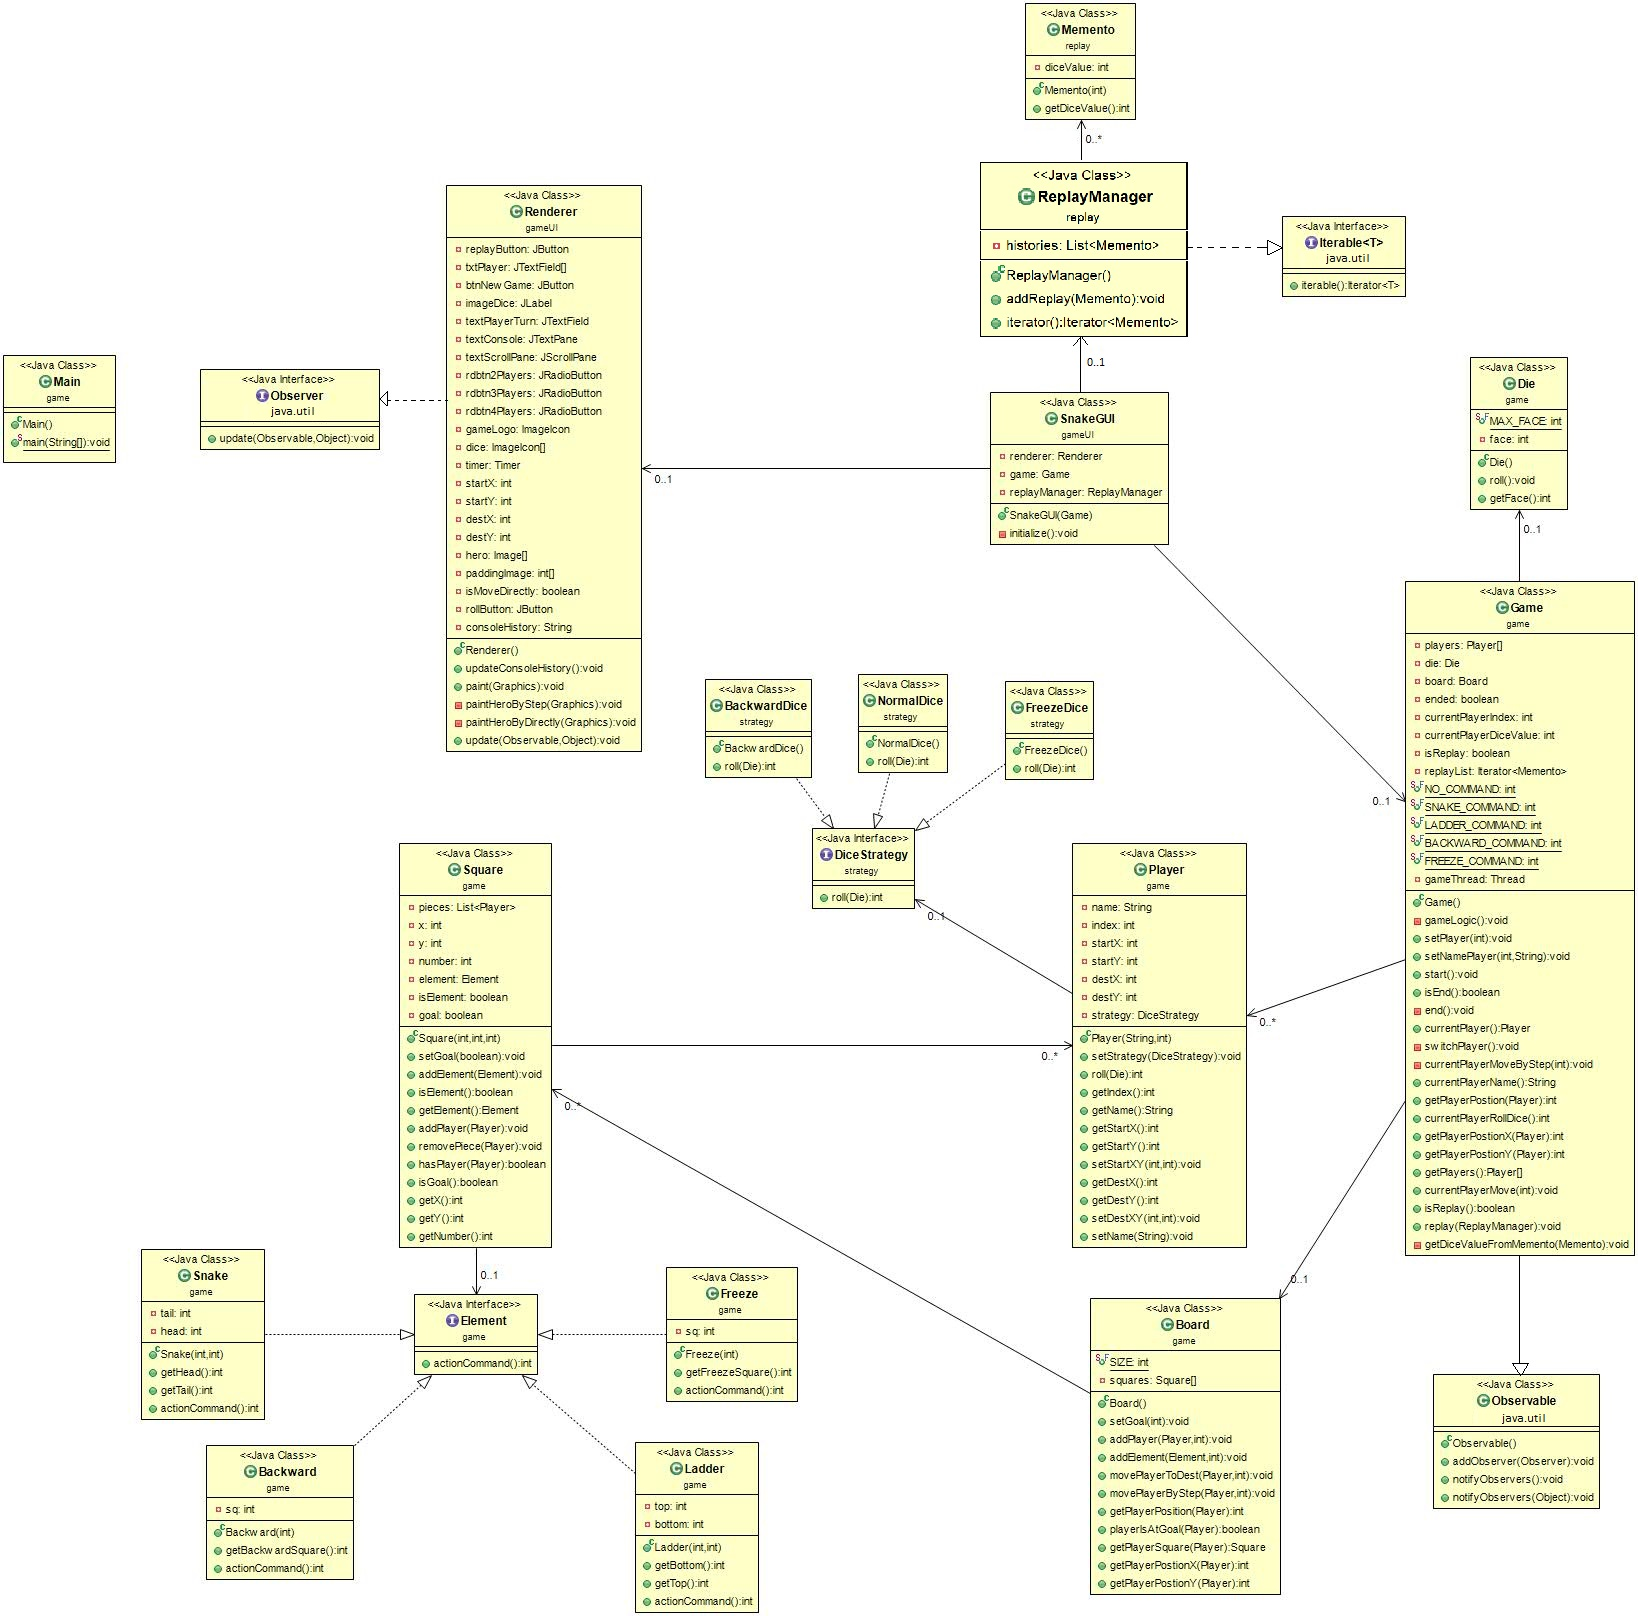
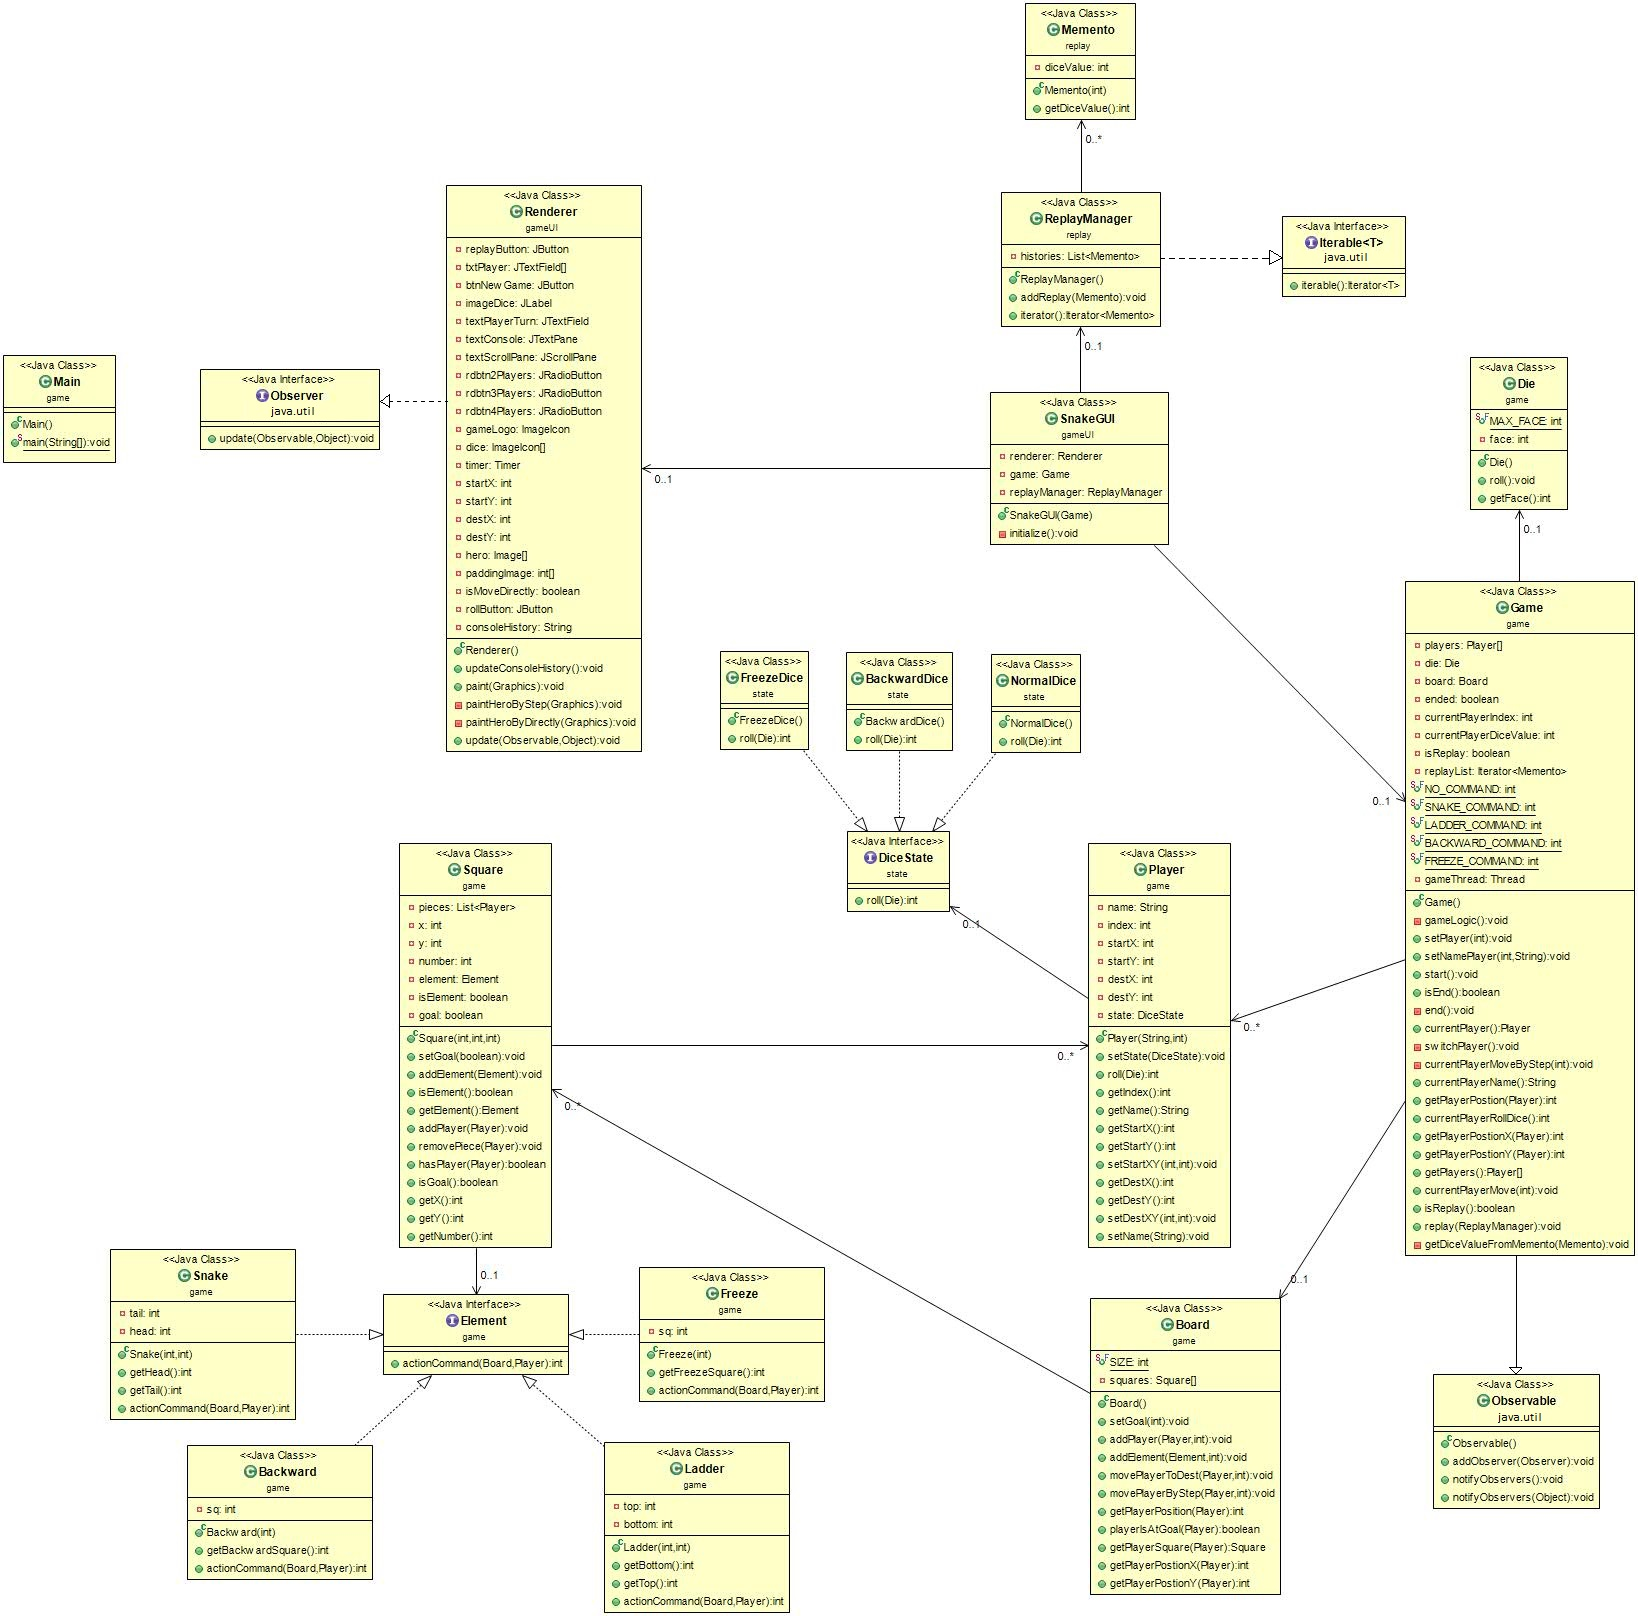
better design pattern

diff --git a/src/game/Game.java b/src/game/Game.java
@@ -5,8 +5,6 @@ import java.util.Observable;
 
 import replay.Memento;
 import replay.ReplayManager;
-import strategy.BackwardDice;
-import strategy.FreezeDice;
 
 public class Game extends Observable {
 
@@ -36,7 +34,6 @@ public class Game extends Observable {
 		die = new Die();
 		board = new Board();
 		currentPlayerIndex = 0;
-		// gameThread.start();
 
 		// Set and add Snake position
 		Snake[] snakes = { new Snake(49, 4), new Snake(42, 16), new Snake(55, 7), new Snake(72, 14), new Snake(86, 48),
@@ -69,17 +66,7 @@ public class Game extends Observable {
 		Square currentPlayerSquare = board.getPlayerSquare(currentPlayer());
 		if (currentPlayerSquare.isElement()) {
 			Element element = currentPlayerSquare.getElement();
-			commandID = element.actionCommand();
-			if (commandID == SNAKE_COMMAND) {
-				Snake snake = (Snake) element;
-				board.movePlayerToDest(currentPlayer(), snake.getTail());
-			} else if (commandID == LADDER_COMMAND) {
-				Ladder ladder = (Ladder) element;
-				board.movePlayerToDest(currentPlayer(), ladder.getTop());
-			} else if (commandID == BACKWARD_COMMAND)
-				currentPlayer().setStrategy(new BackwardDice());
-			else if (commandID == FREEZE_COMMAND)
-				currentPlayer().setStrategy(new FreezeDice());
+			commandID = element.actionCommand(board, currentPlayer());
 		}
 		if (board.playerIsAtGoal(currentPlayer()))
 			end();
@@ -108,7 +95,6 @@ public class Game extends Observable {
 	}
 
 	public void start() {
-
 		gameThread = new Thread() {
 			@Override
 			public void run() {

diff --git a/src/game/Player.java b/src/game/Player.java
@@ -1,7 +1,7 @@
 package game;
 
-import strategy.DiceStrategy;
-import strategy.NormalDice;
+import state.DiceState;
+import state.NormalDice;
 
 public class Player {
 
@@ -14,21 +14,21 @@ public class Player {
 	private int destX;
 	private int destY;
 
-	private DiceStrategy strategy;
+	private DiceState state;
 
 	public Player(String name, int index) {
+		this.state = new NormalDice();
 		this.index = index;
-		this.strategy = new NormalDice();
 		this.name = name;
 	}
 
-	public void setStrategy(DiceStrategy strategy) {
-		this.strategy = strategy;
+	public void setState(DiceState state) {
+		this.state = state;
 	}
 
 	public int roll(Die die) {
-		int val = this.strategy.roll(die);
-		this.setStrategy(new NormalDice());
+		int val = this.state.roll(die);
+		this.state = new NormalDice();
 		return val;
 	}
 

diff --git a/src/game/Backward.java b/src/game/Backward.java
@@ -1,5 +1,7 @@
 package game;
 
+import state.BackwardDice;
+
 public class Backward implements Element {
 
 	private int sq;
@@ -13,7 +15,8 @@ public class Backward implements Element {
 	}
 
 	@Override
-	public int actionCommand() {
+	public int actionCommand(Board board, Player player) {
+		player.setState(new BackwardDice());
 		return Game.BACKWARD_COMMAND;
 	}
 

diff --git a/src/game/Freeze.java b/src/game/Freeze.java
@@ -1,5 +1,7 @@
 package game;
 
+import state.FreezeDice;
+
 public class Freeze implements Element {
 
 	private int sq;
@@ -13,7 +15,8 @@ public class Freeze implements Element {
 	}
 
 	@Override
-	public int actionCommand() {
+	public int actionCommand(Board board, Player player) {
+		player.setState(new FreezeDice());
 		return Game.FREEZE_COMMAND;
 	}
 

diff --git a/src/game/Ladder.java b/src/game/Ladder.java
@@ -19,7 +19,8 @@ public class Ladder implements Element {
 	}
 
 	@Override
-	public int actionCommand() {
+	public int actionCommand(Board board, Player player) {
+		board.movePlayerToDest(player, getTop());
 		return Game.LADDER_COMMAND;
 	}
 

diff --git a/src/game/Snake.java b/src/game/Snake.java
@@ -19,7 +19,8 @@ public class Snake implements Element {
 	}
 
 	@Override
-	public int actionCommand() {
+	public int actionCommand(Board board, Player player) {
+		board.movePlayerToDest(player, getTail());
 		return Game.SNAKE_COMMAND;
 	}
 

diff --git a/src/state/FreezeDice.java b/src/state/FreezeDice.java
@@ -1,12 +1,11 @@
-package strategy;
+package state;
 
 import game.Die;
 
-public class FreezeDice implements DiceStrategy {
+public class FreezeDice implements DiceState {
 
 	@Override
 	public int roll(Die die) {
 		return 0;
 	}
-
 }

diff --git a/src/state/BackwardDice.java b/src/state/BackwardDice.java
@@ -1,0 +1,14 @@
+package state;
+
+import game.Die;
+
+public class BackwardDice implements DiceState {
+
+	@Override
+	public int roll(Die die) {
+		die.roll();
+		int face = die.getFace() * -1;
+		return face;
+	}
+
+}

diff --git a/src/state/NormalDice.java b/src/state/NormalDice.java
@@ -1,0 +1,14 @@
+package state;
+
+import game.Die;
+
+public class NormalDice implements DiceState {
+
+	@Override
+	public int roll(Die die) {
+		die.roll();
+		int face = die.getFace();
+		return face;
+	}
+
+}

diff --git a/src/state/DiceState.java b/src/state/DiceState.java
@@ -1,8 +1,8 @@
-package strategy;
+package state;
 
 import game.Die;
 
-public interface DiceStrategy {
+public interface DiceState {
 
 	public int roll(Die die);
 

diff --git a/src/game/Element.java b/src/game/Element.java
@@ -2,6 +2,6 @@ package game;
 
 public interface Element {
 
-	public int actionCommand();
+	public int actionCommand(Board board, Player player);
 
 }
